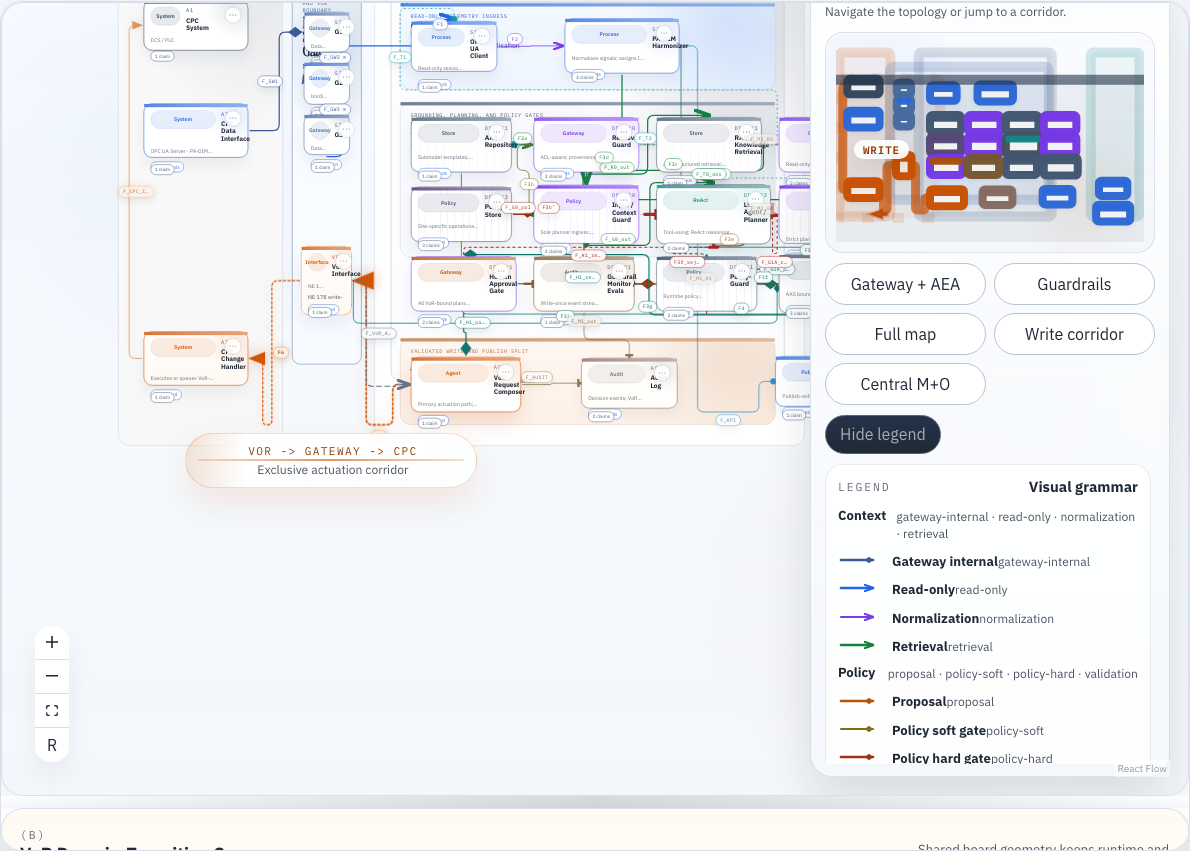
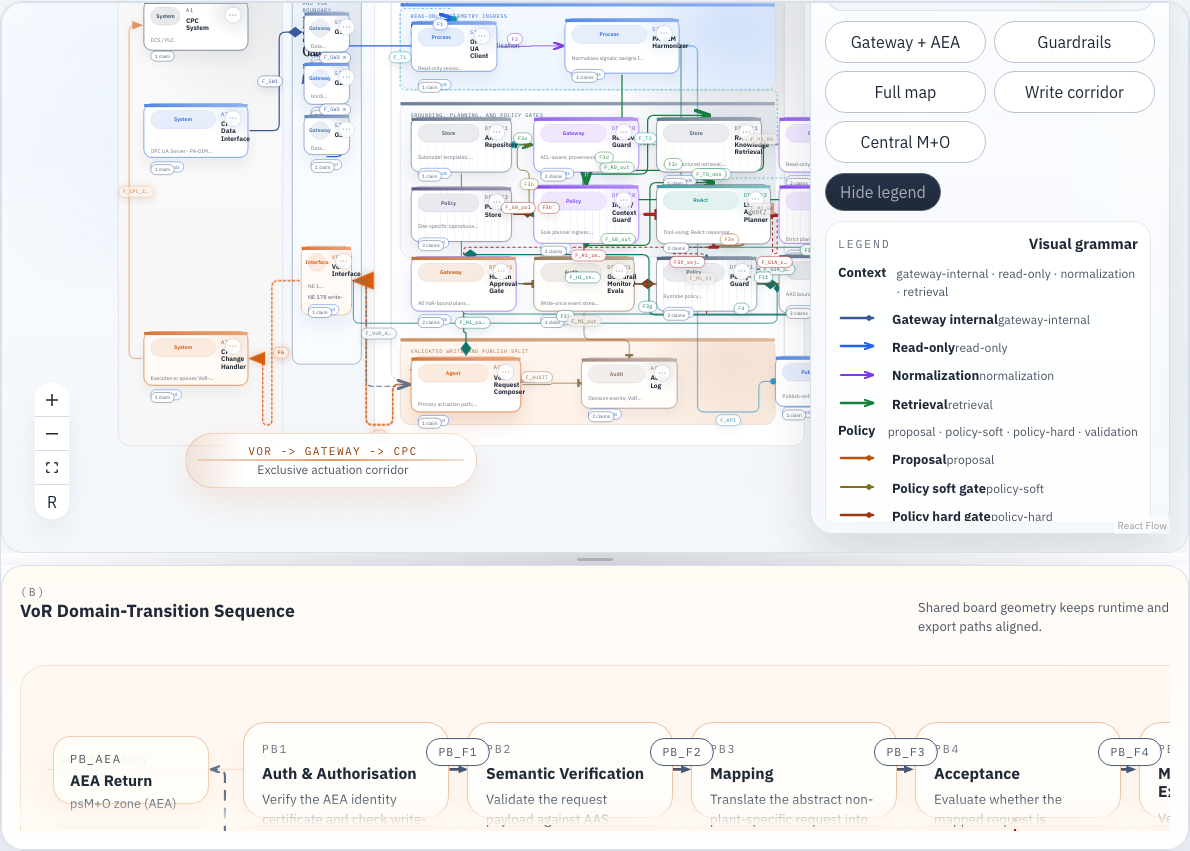
Refresh README screenshots

diff --git a/README.md b/README.md
@@ -6,7 +6,7 @@ This project is optimized for two audiences at once. External readers can use it
 
 ![AEA architecture overview](docs/assets/readme-overview.png)
 
-*Panel A overview with the navigator and legend visible. The canvas renders the canonical architecture board, not an ad hoc diagram authored directly in React Flow.*
+*Panel A overview with the navigator, legend, and synchronized sequence panel visible. The canvas renders the canonical architecture board, not an ad hoc diagram authored directly in React Flow.*
 
 ## What This App Does
 
@@ -78,7 +78,7 @@ In practical terms: the spec defines what the architecture means, the graph JSON
 
 ![AEA writeback state with linked sequence mapping](docs/assets/readme-vor-sync.png)
 
-*Selected `F_VoR_ACK` acknowledgement state. The workspace view shows the architecture selection, the focused navigator region, and the linked sequence mapping surfaced in the inspector.*
+*Selected `F_VoR_ACK` acknowledgement state. The workspace view shows the architecture selection, the focused navigator region, the linked sequence mapping in the inspector, and the revealed VoR sequence panel below.*
 
 ### Snapshots And Exports
 
